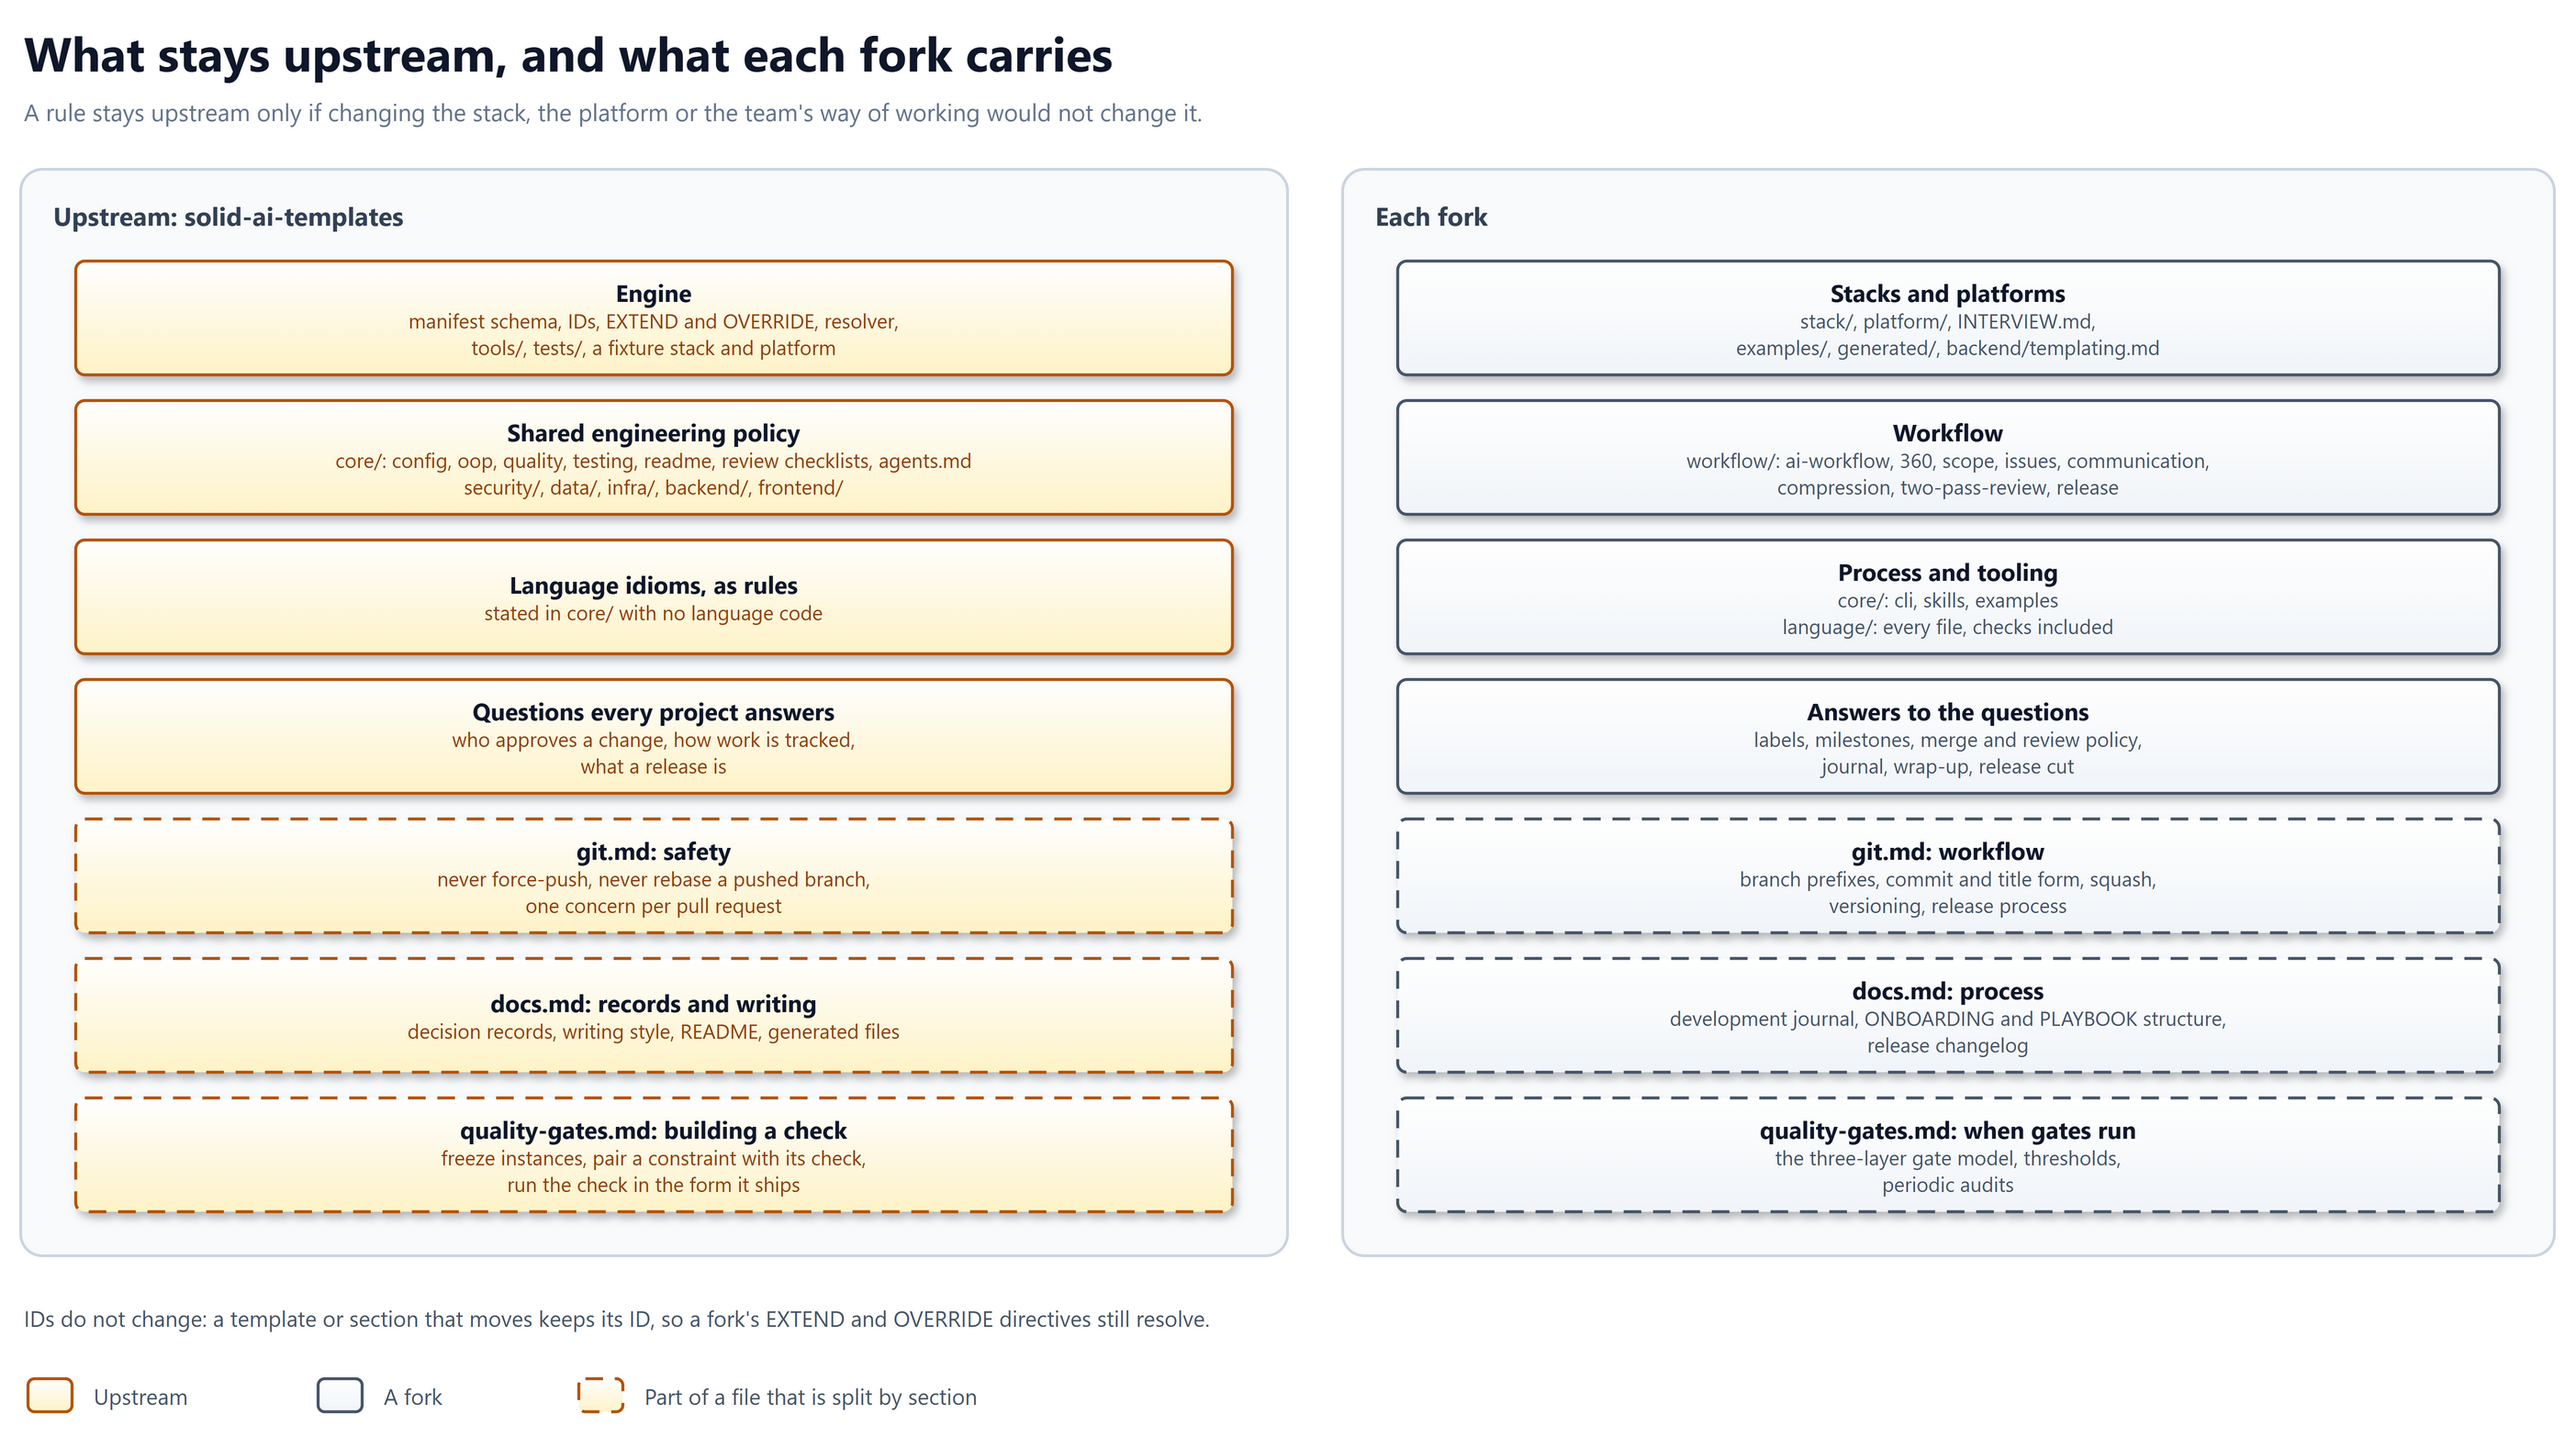
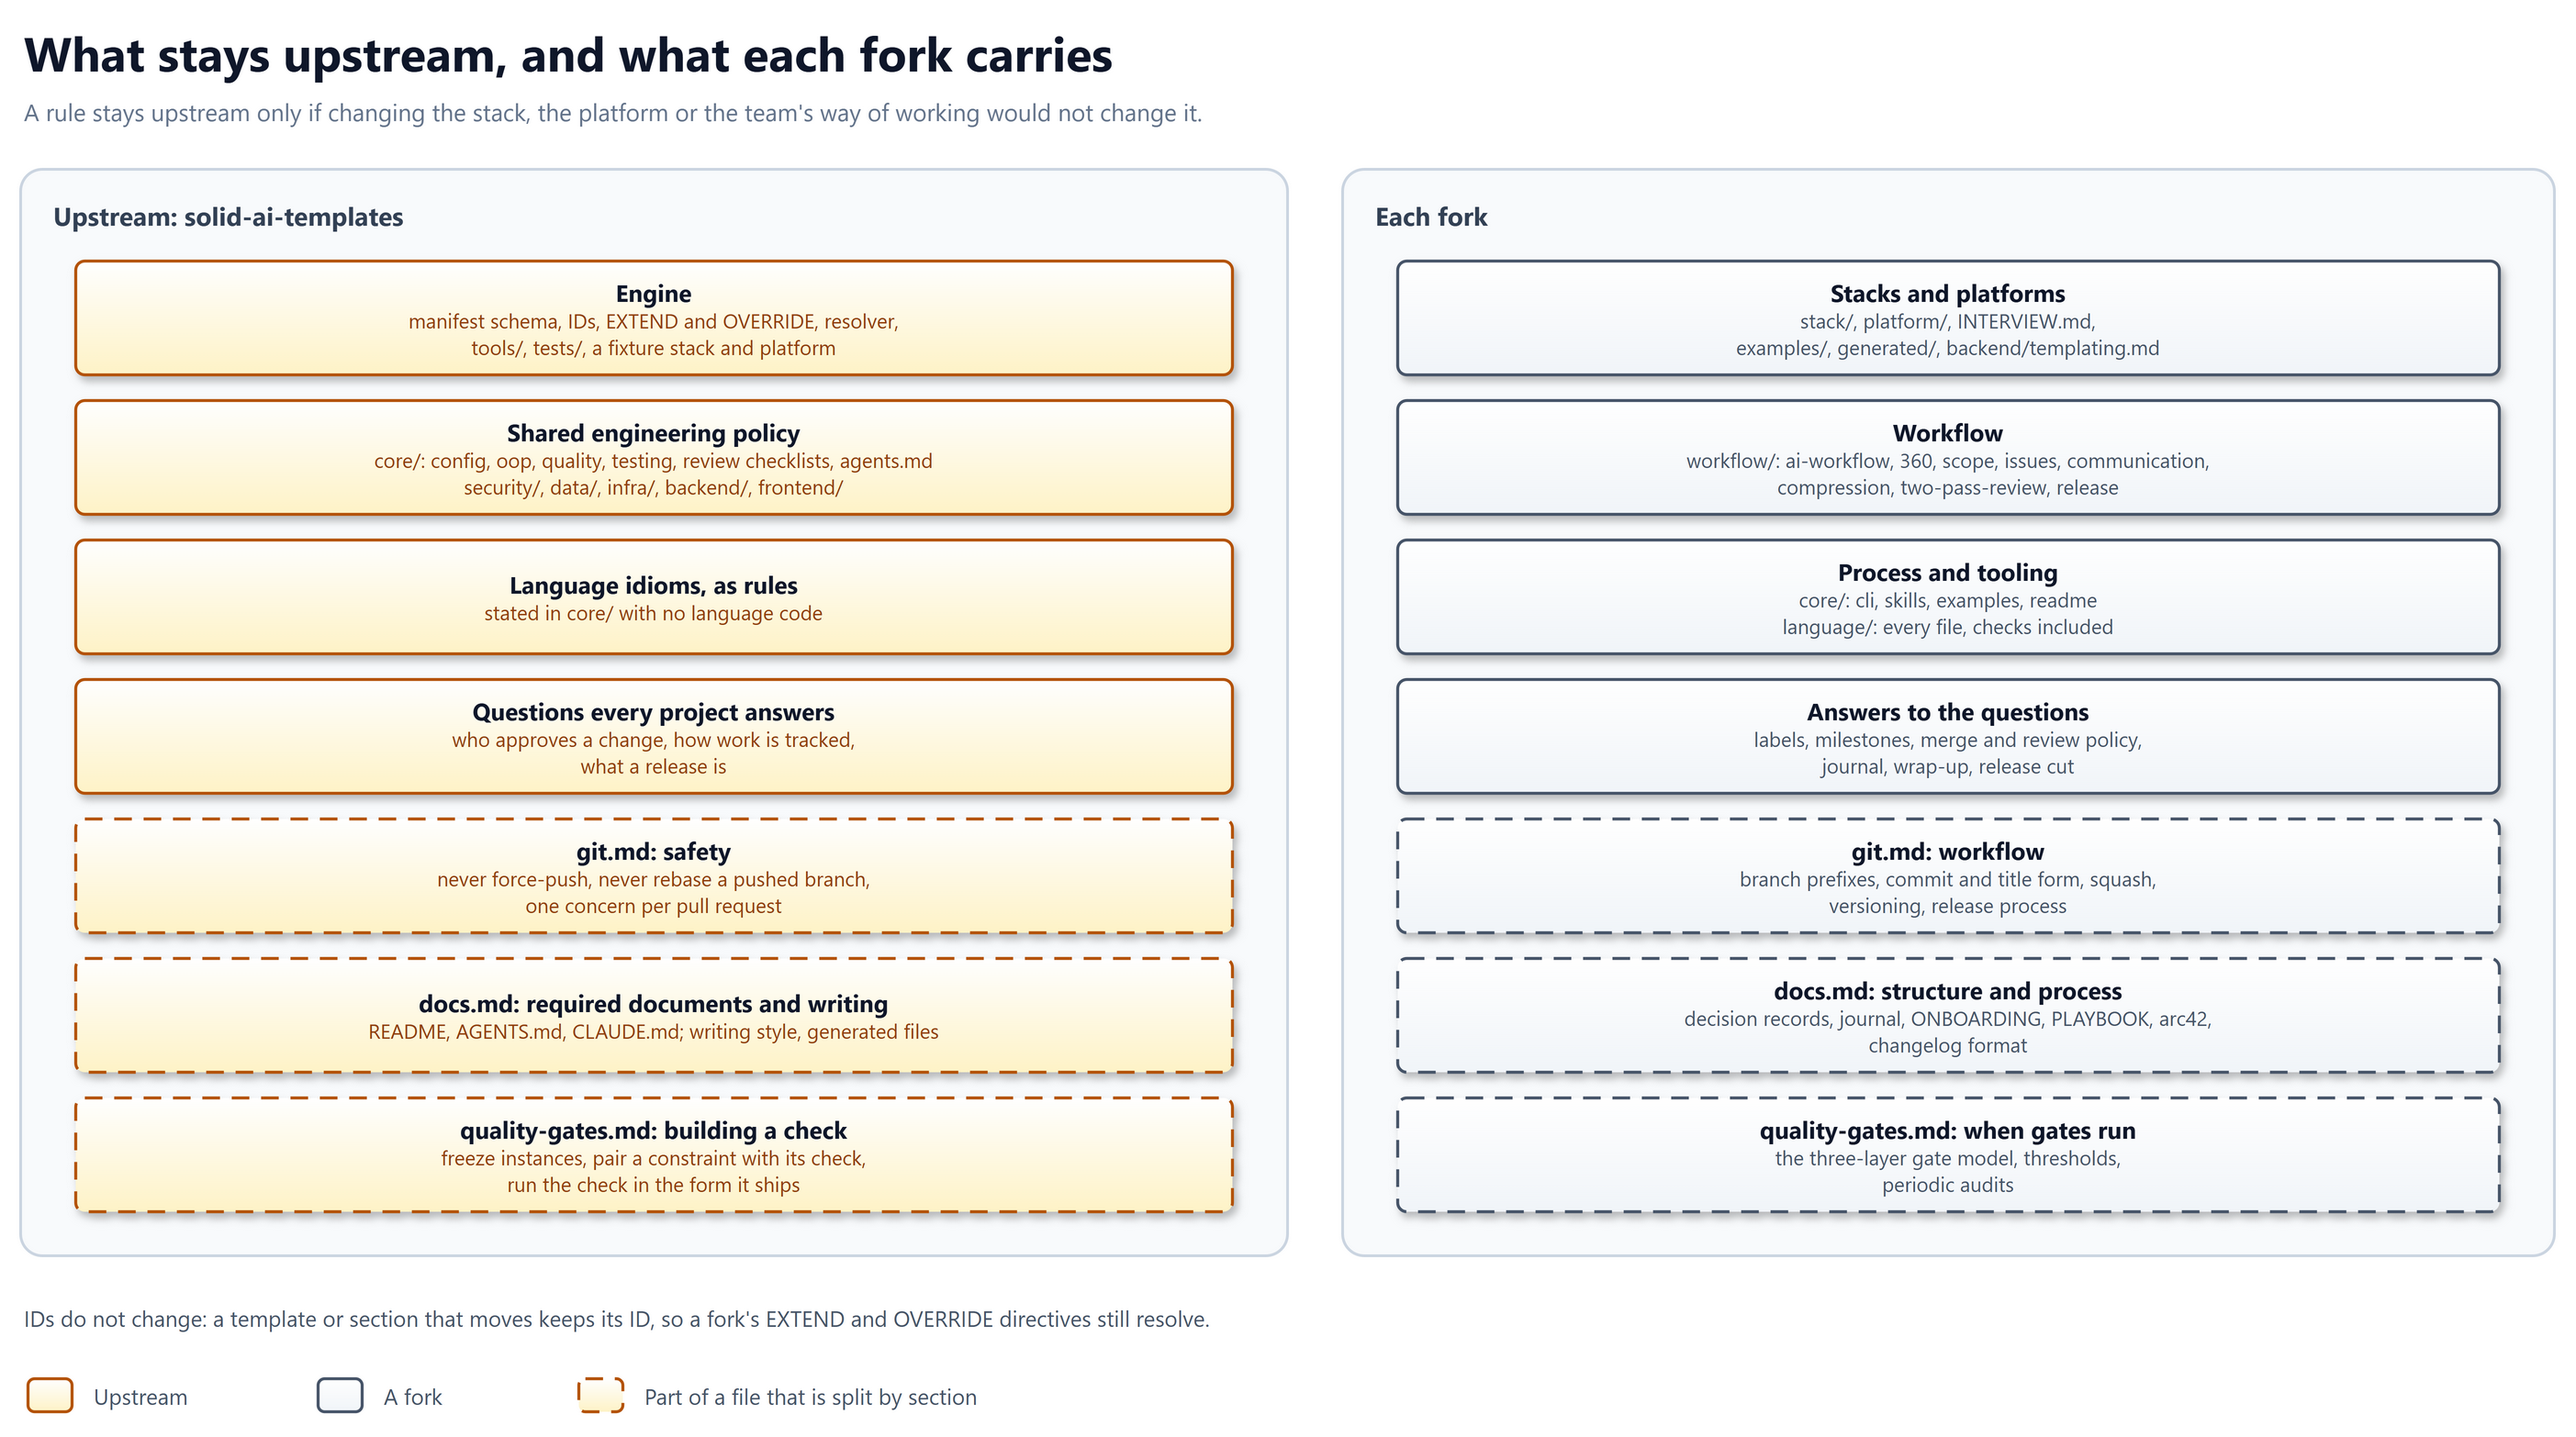
docs(decisions): upstream requires README, AGENTS.md and CLAUDE.md and prescribes no structure (#1964)
Part of #1944.

diff --git a/docs/decisions/050-what-stays-upstream.md b/docs/decisions/050-what-stays-upstream.md
@@ -48,8 +48,11 @@ every answer to those questions moves to forks.
   upstream right for all of them, and each fork supplies its own answer.
 - History-safety rules in git hold for every team; branch prefixes and title
   forms are one team's choice.
-- Recording decisions is documentation practice any team benefits from; only
-  a project's categories are its own.
+- Which documents a project keeps, and how each is laid out, differ across
+  teams and organisations. Upstream requires only the documents every
+  project needs, `README.md`, `AGENTS.md` and `CLAUDE.md`, and prescribes
+  no document's structure, so the core stays as lean as the waist test
+  allows.
 
 ## Design
 
@@ -59,11 +62,11 @@ every answer to those questions moves to forks.
 | - | ---- | ----------- |
 | 1 | The waist test | A rule stays upstream only if changing the stack, the platform or the team's way of working would not change it |
 | 2 | Engine upstream | The manifest schema, IDs, EXTEND and OVERRIDE, the resolver, `tools/`, `tests/`, and a fixture stack and platform as test input |
-| 3 | Shared policy upstream | `core/`: config, oop, quality, testing, readme, the review checklists, and `agents.md` as the output contract; `security/`, `data/`, `infra/`, `backend/` and `frontend/` |
+| 3 | Shared policy upstream | `core/`: config, oop, quality, testing, the review checklists, and `agents.md` as the output contract; `security/`, `data/`, `infra/`, `backend/` and `frontend/` |
 | 4 | Rules, not language checks | `core/` states each idiom's rule language-neutrally and carries no language-specific code; the check moves with `language/`, which leaves upstream whole (#1926) |
 | 5 | Governance asks, forks answer | Upstream asks who approves a change, how work is tracked and what a release is, and answers none of them. Labels, milestones, merge and review policy, the journal, wrap-up and the release cut move to forks |
 | 6 | Git splits | Upstream keeps never force-push, never rebase a pushed branch, one concern per pull request, committer identity, submodules, off-limits paths and `.gitignore`. Branch prefixes, commit and title form, squash policy, versioning and the release process move |
-| 7 | Decision records stay upstream | The ADR threshold, the record layout, the immutability rules and the schema and layout checks; a fork sets only its categories and the record its layout binds from |
+| 7 | Required documents, no structure | Upstream requires `README.md`, `AGENTS.md` and `CLAUDE.md` and prescribes no document's structure. `core/readme.md`, decision records (threshold, layout, immutability, schema and layout checks), the changelog format, arc42, and the ONBOARDING, PLAYBOOK and journal rules move |
 | 8 | Workflow moves | All of `workflow/` moves, `release.md` included. From `quality-gates.md`, how a check is built stays; when gates run moves: the three-layer gate model, thresholds and periodic audits |
 | 9 | Ends move | `stack/`, `platform/`, `INTERVIEW.md`, `examples/`, `generated/`, `backend/templating.md`, `language/`, and `core/` cli, skills and examples |
 | 10 | Concern directories | Upstream drops `base/`: `core/`, `security/`, `data/` and `infra/` sit beside `backend/` and `frontend/` under `templates/` (#1504) |
@@ -96,7 +99,7 @@ leaves it for the project or its fork to fill in:
 | Keep the 2026-09-12 map, with the release rules and gate model upstream | The release cut and the gate schedule are one team's answers, and they would keep the file wrong for teams that work otherwise. |
 | Keep governance upstream and let forks OVERRIDE it | Every fork inherits answers it must find and undo, and a missed one silently governs its projects. |
 | Move the whole git policy to forks | The history-safety rules hold for every team, and a project with no fork would lose them. |
-| Move decision records to forks | Every fork would rebuild the same threshold, layout and check. |
+| Keep decision records and the README structure upstream | A record's layout and a README's sections are one organisation's structure; a fork that works otherwise would have to find and override them, and a lean core outweighs each fork keeping its own. |
 | Split by whole file | Three files mix policy and process, so either half would land on the wrong side. |
 | Fold each language check into `core/` beside its rule | A Python check changes with the stack, so it fails rule 1, and language code in `core/` grows every chain, the non-Python ones included. |
 
